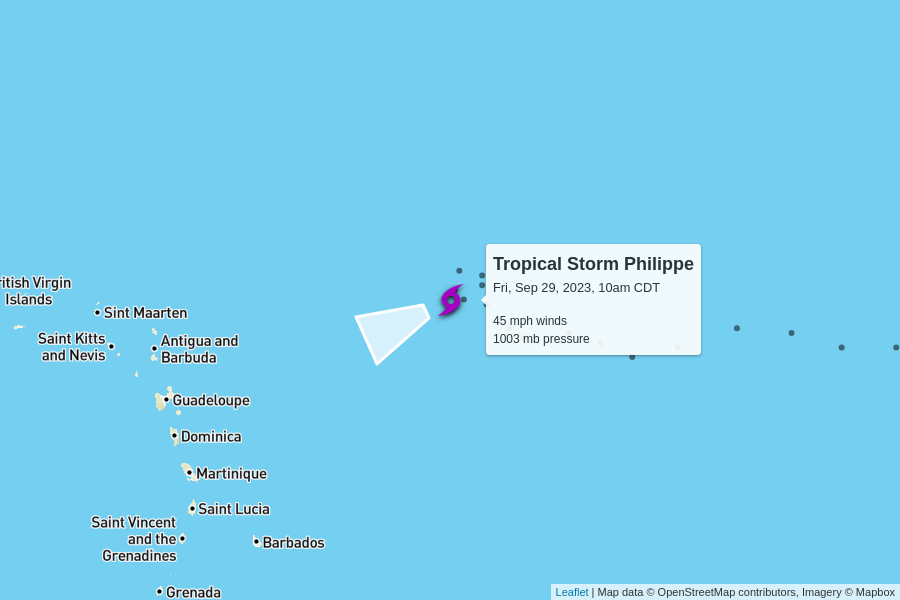
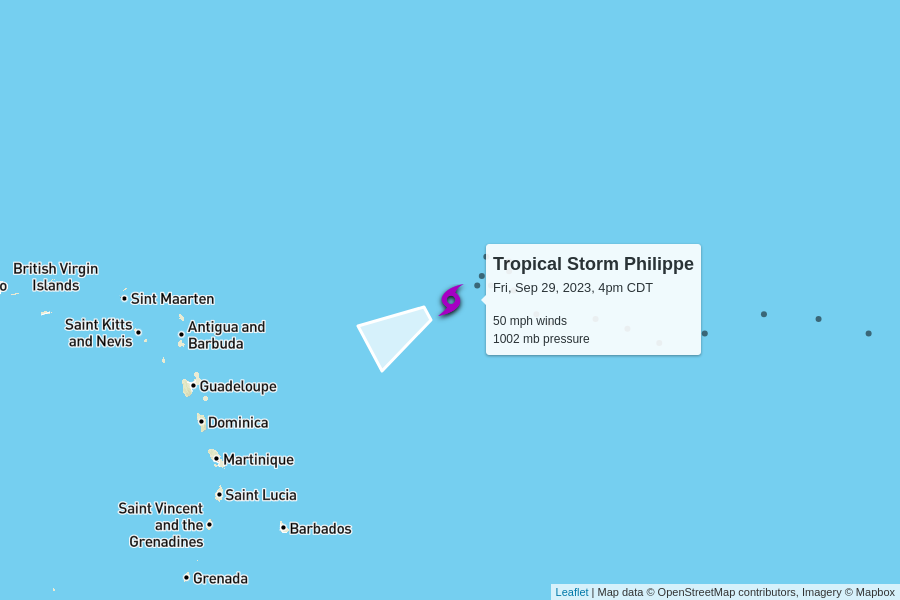
automatic update

diff --git a/docs/index.html b/docs/index.html
@@ -104,7 +104,7 @@
         <td colspan="6" class="storm category-0" >
           <h2>
             Tropical Storm Philippe
-            <p class="updated">last updated <span data-time>2023-09-29T15:00:00.000Z</span></p>
+            <p class="updated">last updated <span data-time>2023-09-29T21:00:00.000Z</span></p>
           </h2>
         </td>
       </tr>
@@ -119,12 +119,12 @@
       </tr>
       <tr>
         <td class="spacer"></td>
-        <td>45 mph<br>0 mph since last update</td>
-        <td>1003 mb<br>0 mb since last update</td>
+        <td>50 mph<br>+5 mph since last update</td>
+        <td>1002 mb<br>-1 mb since last update</td>
         <td>
-          2 mph to the west-southwest
+          5 mph to the west-southwest
           <br/>
-          <span style="display: inline-block; font-size: 1.5em; transform: rotate(245deg);">↑</span>
+          <span style="display: inline-block; font-size: 1.5em; transform: rotate(240deg);">↑</span>
         </td>
         <td><a href="https://raw.githubusercontent.com/mgwalker/atlantic-hurricanes/main/data/csv/AL172023.csv">AL172023.csv</a></td>
         <td><a href="https://www.nhc.noaa.gov/archive/2023/PHILIPPE.shtml?">NHC advisories</a></td>
@@ -148,7 +148,7 @@
         <td colspan="6" class="storm category-0" >
           <h2>
             Tropical Storm Rina
-            <p class="updated">last updated <span data-time>2023-09-29T15:00:00.000Z</span></p>
+            <p class="updated">last updated <span data-time>2023-09-29T21:00:00.000Z</span></p>
           </h2>
         </td>
       </tr>
@@ -166,9 +166,9 @@
         <td>45 mph<br>0 mph since last update</td>
         <td>1003 mb<br>0 mb since last update</td>
         <td>
-          6 mph to the north-northwest
+          9 mph to the northwest
           <br/>
-          <span style="display: inline-block; font-size: 1.5em; transform: rotate(335deg);">↑</span>
+          <span style="display: inline-block; font-size: 1.5em; transform: rotate(320deg);">↑</span>
         </td>
         <td><a href="https://raw.githubusercontent.com/mgwalker/atlantic-hurricanes/main/data/csv/AL182023.csv">AL182023.csv</a></td>
         <td><a href="https://www.nhc.noaa.gov/archive/2023/RINA.shtml?">NHC advisories</a></td>
